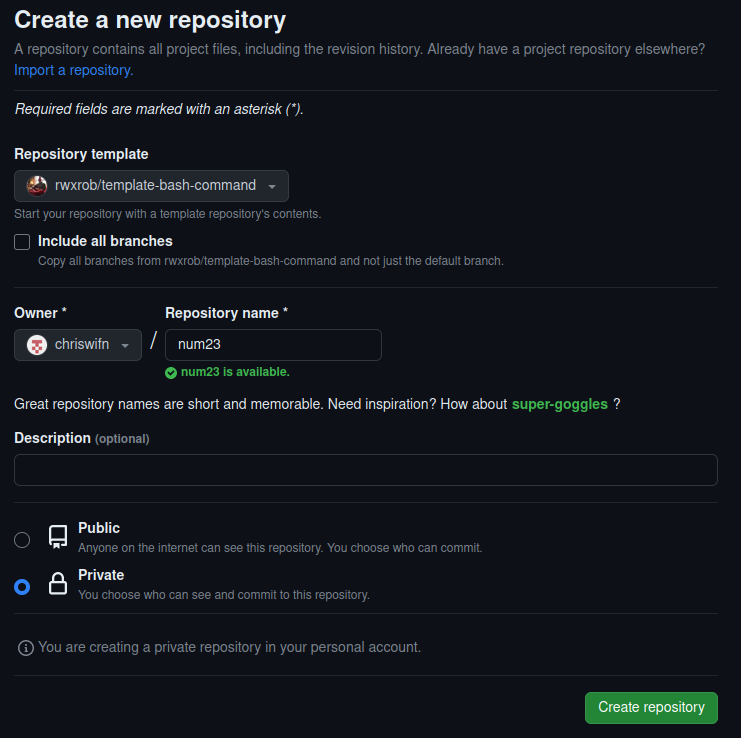
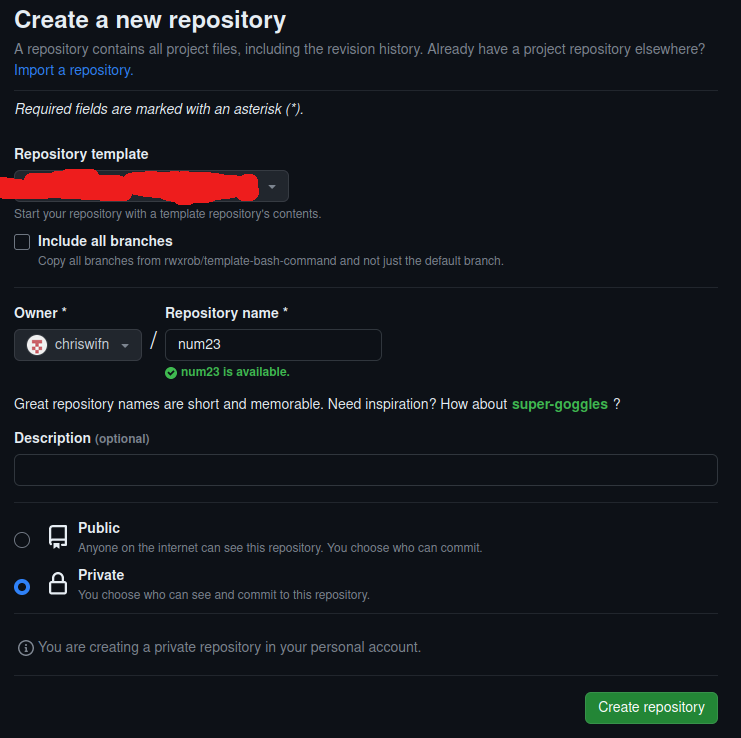
remove filler template

Changed region(s): [[0.0, 0.2182, 0.3725, 0.2805]]

diff --git a/README.md b/README.md
@@ -23,8 +23,6 @@ Generelle Anleitung:
    ![](./assets/231103202605.png)
 1. Namen auf `num23` setzen, `Private` auswaehlen und mit Create repository bestaetigen
    ![](./assets/231103202908.png)
-   Ignorieren Sie den Namen bei Repository template, der ist nur zur Demonstration hier, der wird spaeter anders heissen. Ich kann das nur nicht selber testen weil ich keine 2 GitHub Accounts habe.
-   `rwxrob` hat mit der Numerik nichts zu tun.
 1. Repository lokal mit GitHub Desktop `clonen`
 
 # Vorgehen bei den Abgaben
